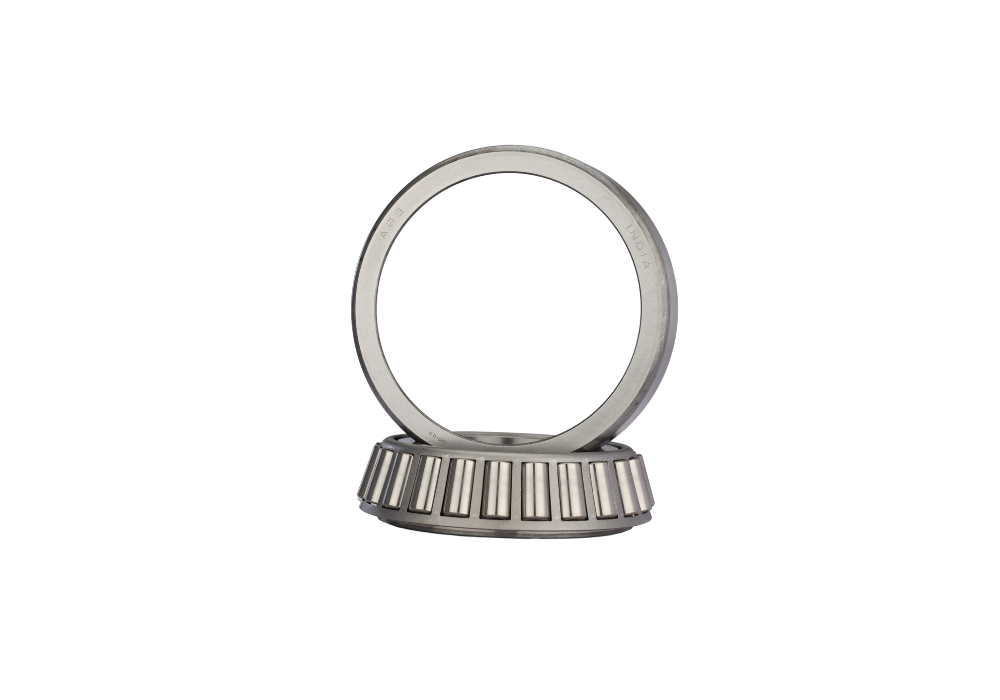
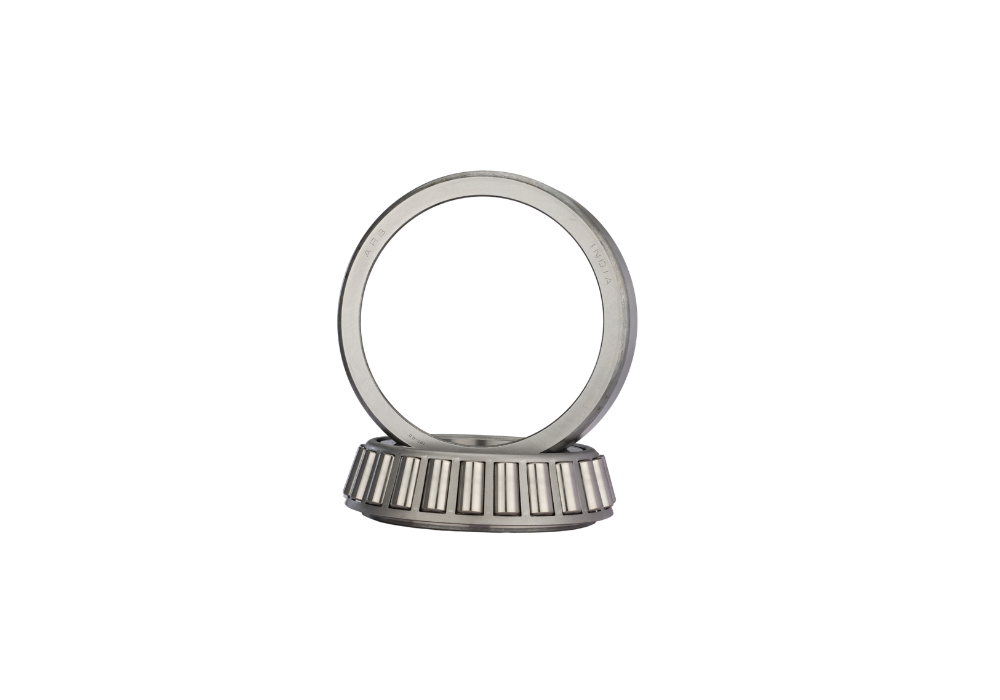
product image changed

Changed region(s): [[0.31, 0.21, 0.682, 0.78]]

diff --git a/components/ProductsSlider.jsx b/components/ProductsSlider.jsx
@@ -27,7 +27,7 @@ const products = [
   {
     title: "DAC Bearings",
     desc: "Precision wheel hub bearings, smooth performance, long-lasting reliability",
-    image: "/2.webp",
+    image: "/other/DAC bearing.png",
     applications: [
       "Mining Equipment",
       "Steel Plants",
@@ -42,7 +42,7 @@ const products = [
   {
     title: "Spherical Bearings",
     desc: "Self-aligning design, handles misalignment, built for heavy-duty ",
-    image: "/2.webp",
+    image: "/other/spherical.png",
     applications: [
       "Mining Equipment",
       "Steel Plants",
@@ -55,7 +55,7 @@ const products = [
   {
     title: "Cylindrical Bearings",
     desc: "High radial load capacity, low friction, excellent for high-speed operations",
-    image: "/1.webp",
+    image: "/other/CYLINDRICAL.png",
     applications: [
       "Electric Motors",
       "Automobiles",
@@ -69,7 +69,7 @@ const products = [
   {
     title: "Ball Bearings",
     desc: "Smooth rotation, low friction, reliable performance for versatile applications",
-    image: "/1.webp",
+    image: "/other/ball.png",
     applications: [
       "Electric Motors",
       "Automobiles",
@@ -176,7 +176,7 @@ export default function ProductSlider() {
                         alt={item.title}
                         width={490}
                         height={400}
-                        className="bearing-3d relative z-10 object-cover"
+                        className="bearing-3d size-80 relative z-10 object-cover"
                       />
                     </div>
                   </div>